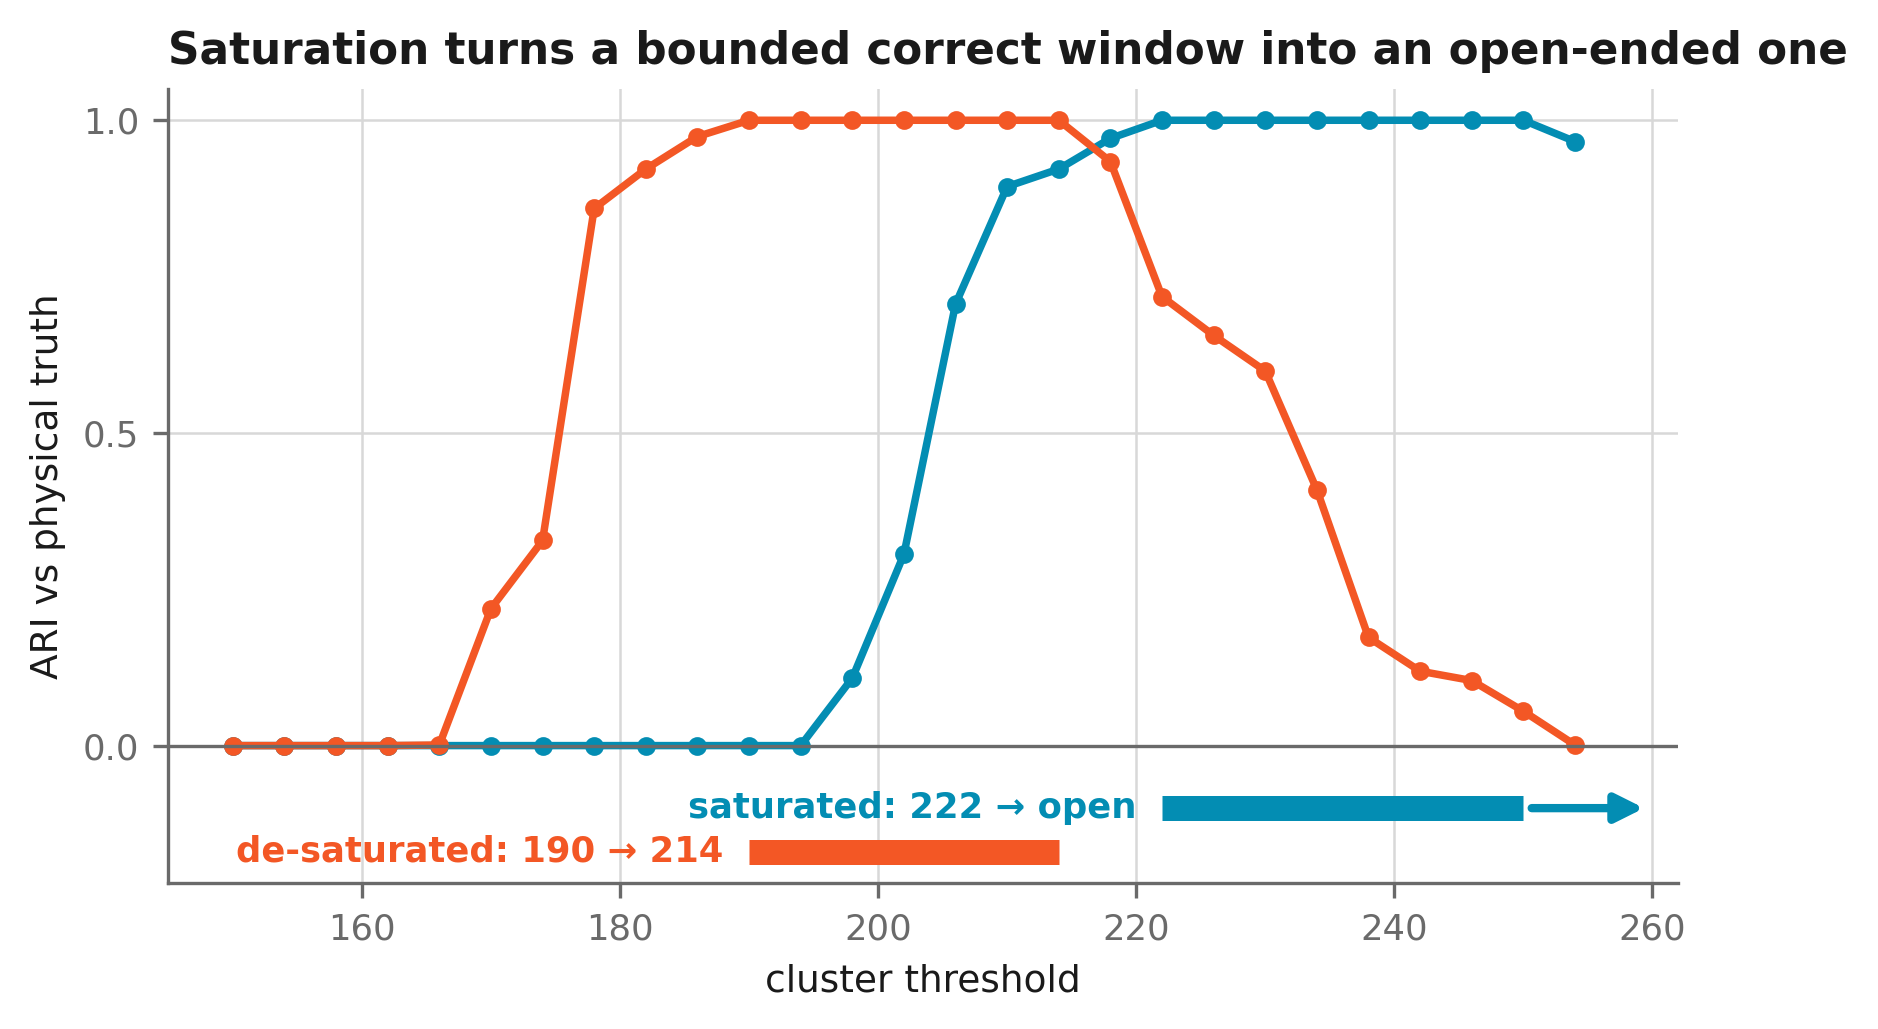
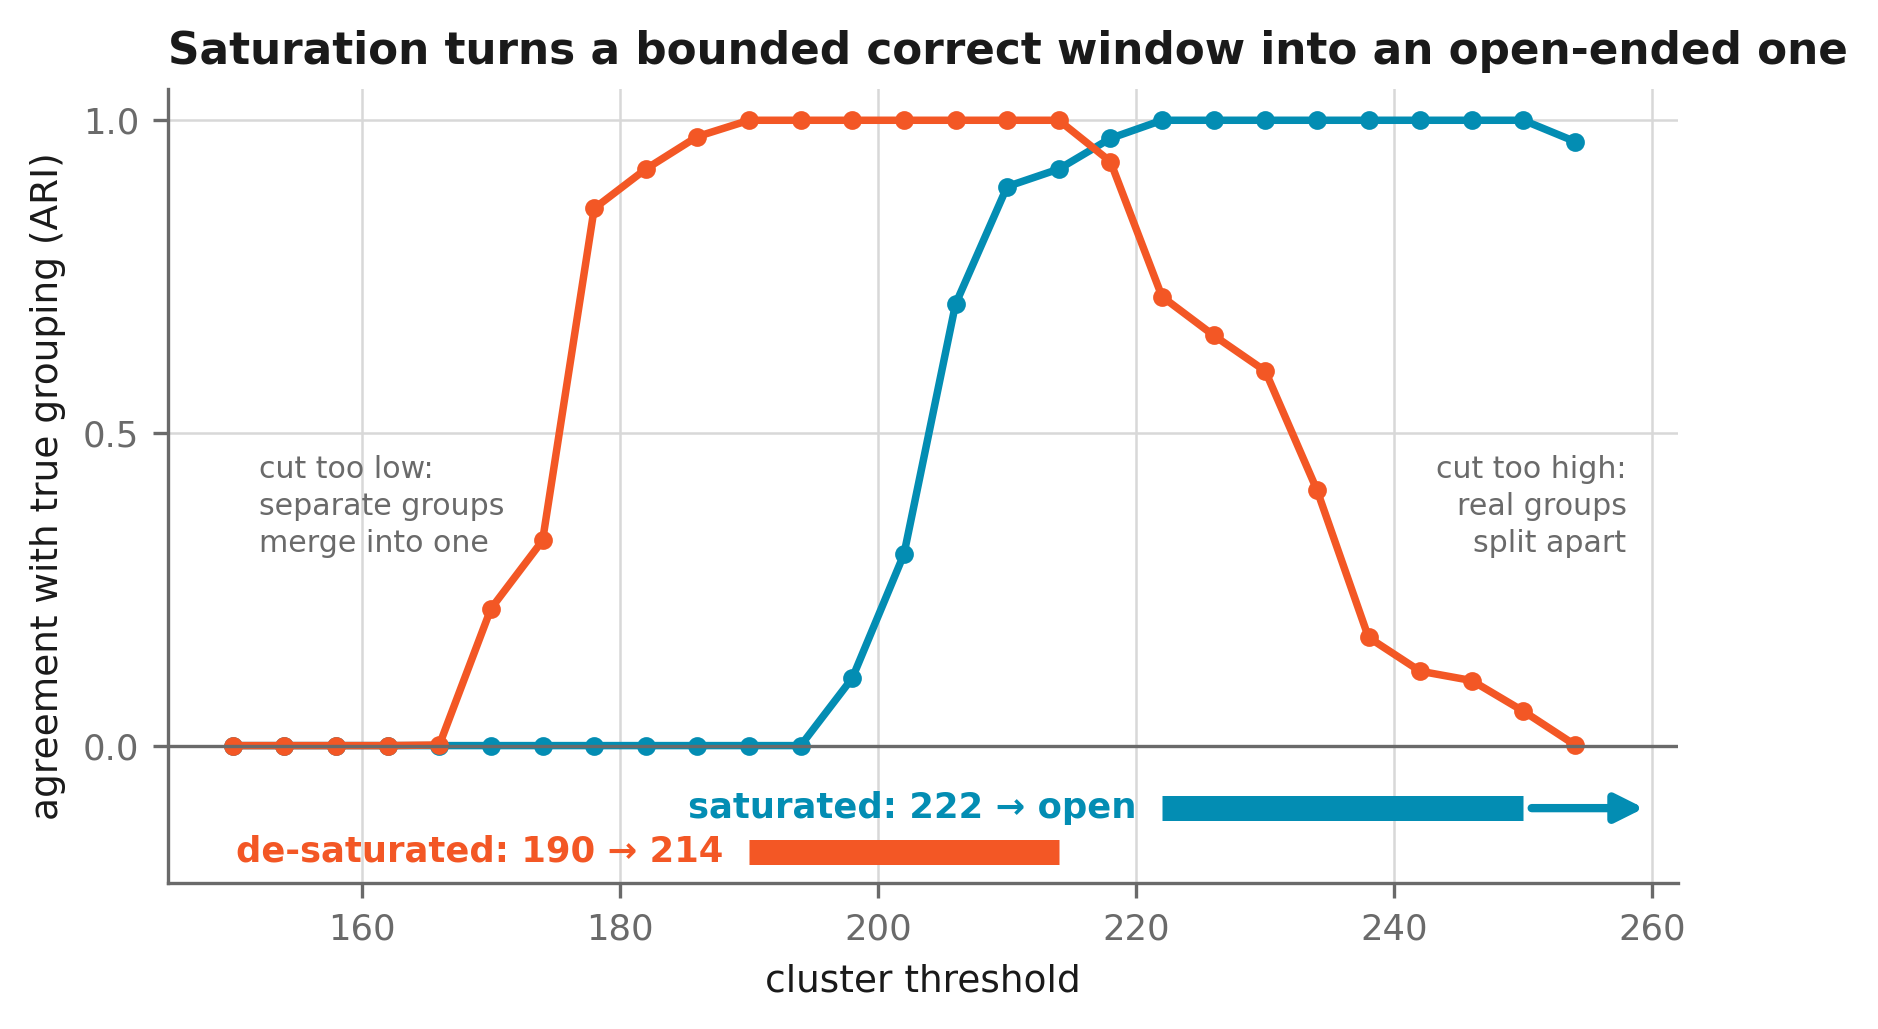
figures: annotate the saturation window failure modes
Label what a too-low and too-high cut do wrong so the hump reads without the
caption, and relabel the y-axis from 'ARI vs physical truth' to 'agreement with
true grouping (ARI)'.

Claude-Session: https://claude.ai/code/session_0199TePCg5kTEVBqaP392G4K

diff --git a/tools/make_calibration_figs.py b/tools/make_calibration_figs.py
@@ -249,7 +249,12 @@ def fig_sat_v2():
     ax.set_ylim(-0.22, 1.05); ax.set_xlim(145, 262)
     ax.set_yticks([0, .5, 1.0])
     ax.axhline(0, color=MUTED, lw=.8)
-    ax.set_xlabel("cluster threshold"); ax.set_ylabel("ARI vs physical truth")
+    ax.set_xlabel("cluster threshold"); ax.set_ylabel("agreement with true grouping (ARI)")
+    # Label what a LOW and a HIGH cut do wrong, so the hump reads without the caption.
+    ax.annotate("cut too low:\nseparate groups\nmerge into one", xy=(152, 0.06), xytext=(152, 0.30),
+                fontsize=7.2, color=MUTED, ha="left", va="bottom", linespacing=1.35)
+    ax.annotate("cut too high:\nreal groups\nsplit apart", xy=(258, 0.06), xytext=(258, 0.30),
+                fontsize=7.2, color=MUTED, ha="right", va="bottom", linespacing=1.35)
     ax.set_title("Saturation turns a bounded correct window into an open-ended one", loc="left")
     tidy(ax)
     save(fig, "sat_ari_truth.png")
